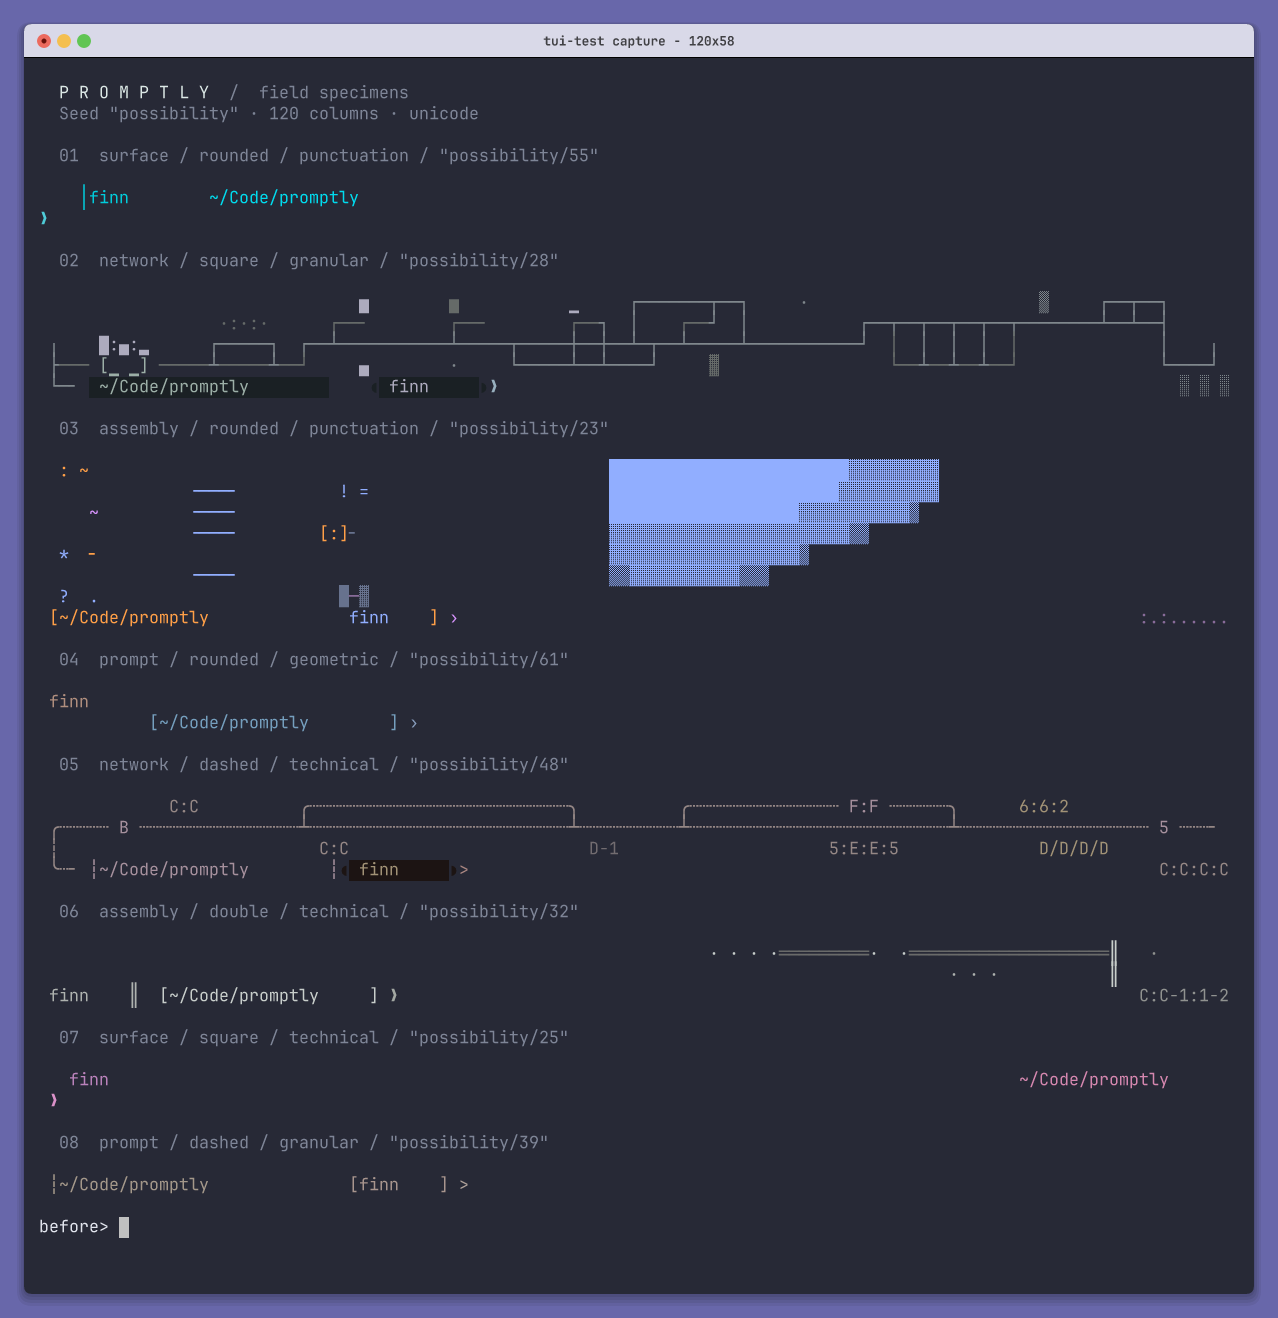
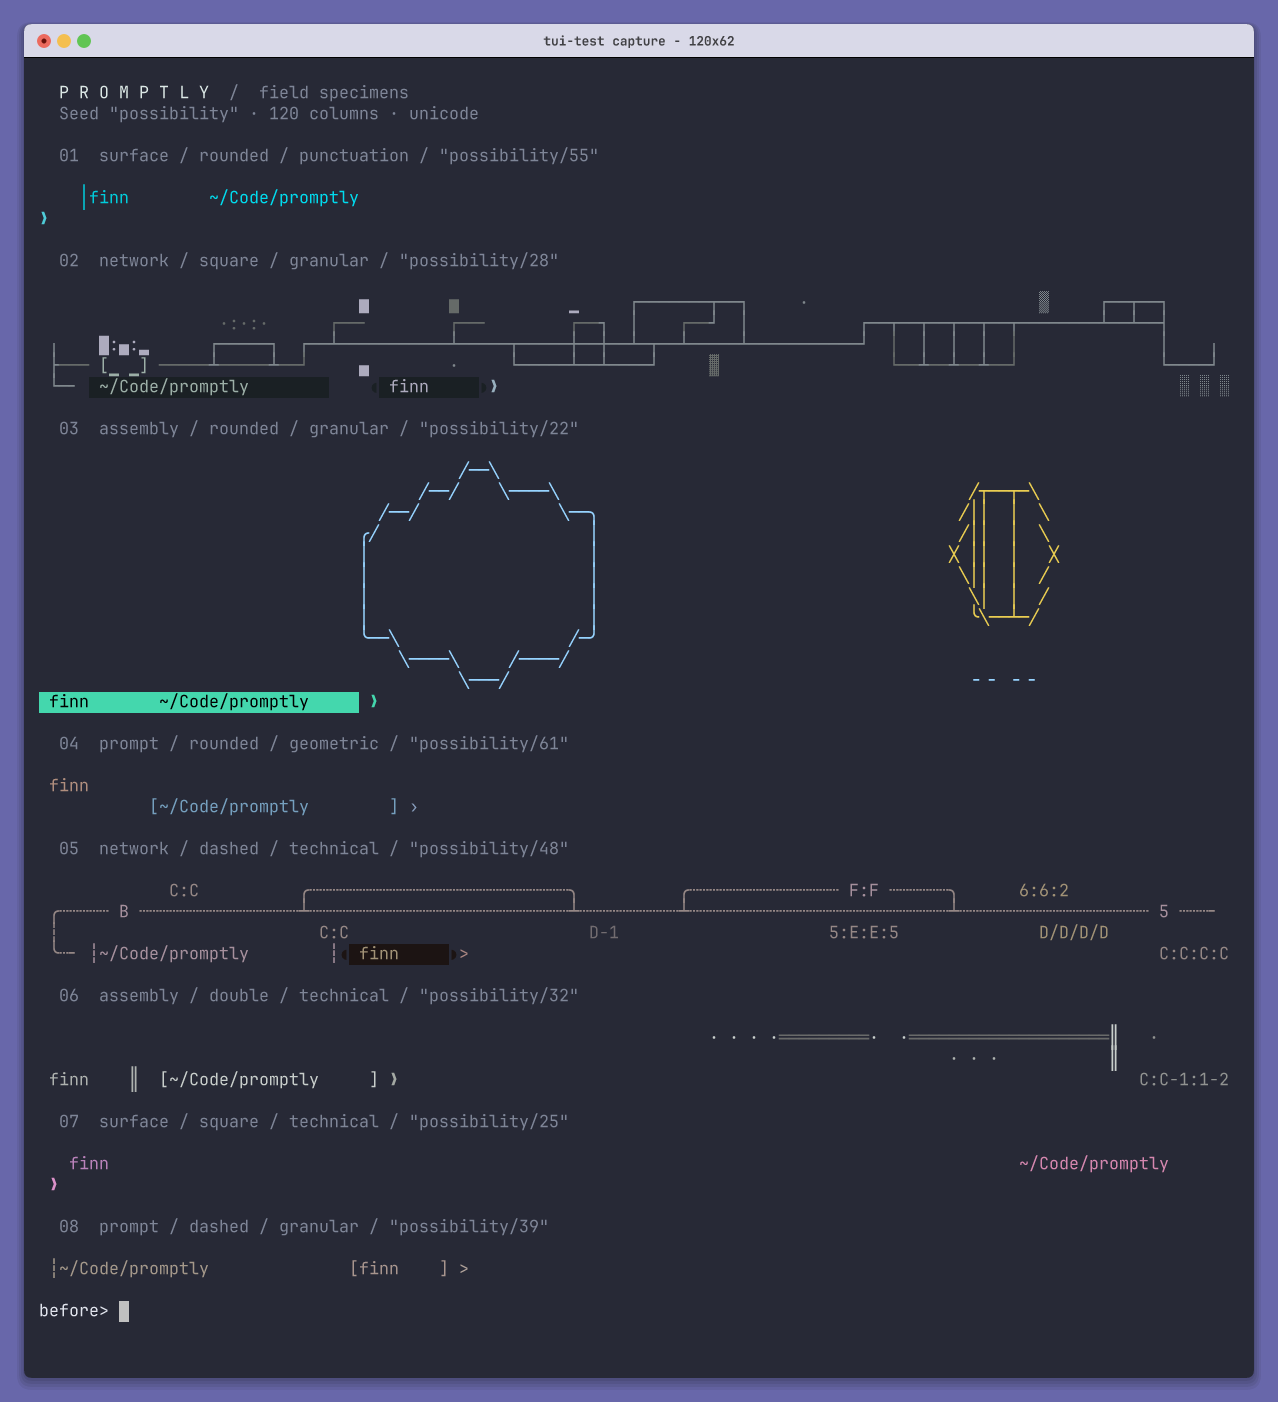
Refresh release galleries and stabilize terminal test keymap

diff --git a/scripts/terminal-test.js b/scripts/terminal-test.js
@@ -51,11 +51,11 @@ function eventually(predicate, message) {
 }
 
 try {
+  // npm injects EDITOR=vi. Choose emacs before startup so zsh configures its
+  // terminal keys in the map used by these Ctrl+E checks, only in this test shell.
   tui('open', '--shell', 'zsh', '--backend', 'ghostty', '--cols', '120', '--rows', '24',
-    '--cwd', root, '--env', `ZDOTDIR=${output}/zdot`, '--config', resolve('tui-test.toml'), '--no-wait-ready');
-  // npm injects EDITOR=vi, which makes zsh choose vi bindings. These editing
-  // checks intentionally use emacs Ctrl+E; set that keymap only in this test shell.
-  submit('bindkey -e; unset NO_COLOR; PROMPT="before> "; RPROMPT=""; clear');
+    '--cwd', root, '--env', `ZDOTDIR=${output}/zdot`, '--env', 'EDITOR=emacs', '--env', 'VISUAL=emacs', '--config', resolve('tui-test.toml'), '--no-wait-ready');
+  submit('unset NO_COLOR; PROMPT="before> "; RPROMPT=""; clear');
   const upgrade = createDesign({ version: 4, seed: 'upgrade', engine: 'prompt', info: false });
   writeFileSync(`${output}/legacy.zsh`, legacy(upgrade));
   writeFileSync(`${output}/upgrade.zsh`, compile(upgrade));

diff --git a/docs/architecture.md b/docs/architecture.md
@@ -445,9 +445,11 @@ terminal scrollback; active input remains correct, as described above.
 
 ## Mixed exploration and compact prompt baseline
 
-`docs/possibilities.png` captures the default mixed gallery: `possibility`, six
-specimens, complexity 8, at 120 columns. `docs/prompts.png` focuses on the new
-compact engine with seed `closely`. Both are actual Ghostty-backend captures.
+The current `docs/possibilities.png` refreshes the mixed gallery with eight
+`possibility` specimens, complexity 8, at 120 columns. `docs/prompts.png` focuses
+on the compact engine with seed `closely`. Both are actual Ghostty-backend
+captures, regenerated with the current composer; the baseline below describes
+the original compact-engine release.
 `examples/compose.*` now stores a compact specimen (`closely/6`); the version-2
 network and version-3 assembly examples remain separate and unchanged.
 

diff --git a/README.md b/README.md
@@ -15,7 +15,7 @@ color, and detail vary independently. No Git, clocks, network calls, or runtime 
 · [Horizontal capsules](docs/capsules-v6.png)
 · [Mixed possibilities](docs/possibilities.png)
 · [Role compositions](docs/surfaces.png)
-· [Earlier compact prompts](docs/prompts.png)
+· [Line-focused prompts](docs/prompts.png)
 · [Freeform compositions](docs/assembly.png)
 · [Connected networks](docs/primitives.png)
 · [Original classic layouts](docs/gallery.png)
